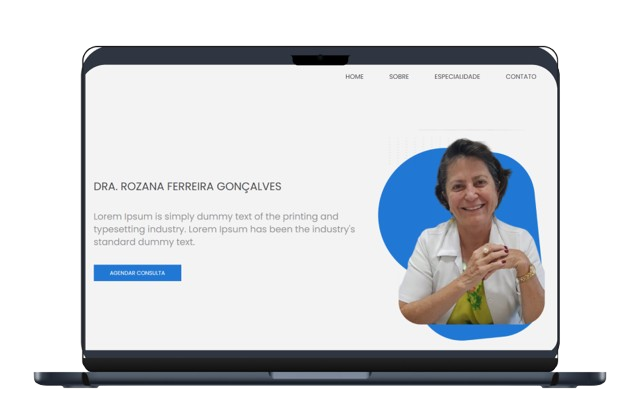
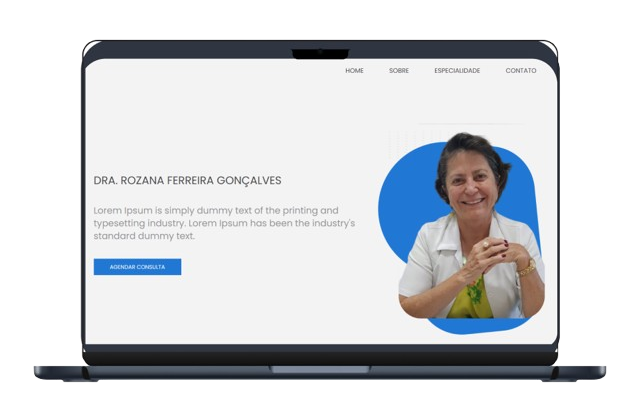
Adicionado carrossel e nova img sekib

diff --git a/index.html b/index.html
@@ -8,6 +8,7 @@
         content="Olá, meu nome é Thainara e sou UX Design e Desenvolvedora Front-End na Empresa Grupo Boticário.">
     <link rel="stylesheet" href="style.css">
     <link rel="shortcut icon" href="./img/logoPortifolio.svg" type="image/x-icon">
+
     <title>Portifólio Thainara Rodrigues</title>
 
     <style>
@@ -50,6 +51,7 @@
             </div>
         </section>
 
+
         <!-- Estudos de Casos -->
         <section class="conteudo-terciario" >
             <div class="circulo"></div>
@@ -57,21 +59,12 @@
             <div class="traco3"  id="estudo-de-caso"></div>
             <h2 class="conteudo-terciario-titulo" >Estudo de Casos </h2>
 
-            <button id="back-button"><img src="img/icons8-avançar-60.png" alt="back-button"> </button>
+            <button id="back-button"><img src="img/icons8-avançar-60.png" alt="Voltar"></button>
 
-            <div class="conteudo-terciario-grid-1">
-                <img class="conteudo-terciario-grid-imagem-1" src="img/printCarrinhoFloricultura.svg"
-                    alt="Tela de Carrinho do Aplicativo Floricultura Online">
-                <img class="conteudo-terciario-grid-imagem-2" src="img/printTelaInicialFloricultura.svg"
-                    alt="Tela Inicial do Aplicativo Floricultura Online">
-                <h3 class="conteudo-terciario-grid-subtitulo-1">Floricultura Online</h3>
-                <p class="conteudo-terciario-grid-paragrafo-1">Projeto do Curso:  Google UX Design <br> Aplicativo de uma Loja de Floricultura Local</p>
-                <button onclick="irParaFloricultura()" class="conteudo-terciario-grid-botao-1">Ver Projeto</button>
-            </div>
 
             <div class="conteudo-terciario-grid-2">
-                <img class="conteudo-terciario-grid-imagem-3" src="img/printTelaInicialSEKIB.svg"
-                    alt="Tela Inicial do Site da SEKIB">
+                <img class="conteudo-terciario-grid-imagem-3" src="img/sekib-pc-removebg-preview.png"
+                    alt="Tela Site da SEKIB">
                 <h3 class="conteudo-terciario-grid-subtitulo-2">Site SEKIB</h3>
                 <p class="conteudo-terciario-grid-paragrafo-2">Projeto do Curso:  Google UX Design <br> Site Responsivo de uma Loja de Bicicletas Personalizáveis </p>
                 <button onclick="irParaSEKIB()" class="conteudo-terciario-grid-botao-2">Ver Projeto</button>
@@ -95,7 +88,18 @@
                 <button onclick="irParaGooday()" class="conteudo-terciario-grid-botao-2">Ver Projeto</button>
             </div>
 
-            <button id="next-button"><img src="img/icons8-avançar-60.png" alt="next-button"> </button>
+            <div class="conteudo-terciario-grid-1">
+                <img class="conteudo-terciario-grid-imagem-1" src="img/floricultura-inicio-removebg-preview.png"
+                    alt="Tela de Carrinho do Aplicativo Floricultura Online">
+                <img class="conteudo-terciario-grid-imagem-2" src="img/floricultura-produto-removebg-preview.png"
+                    alt="Tela Inicial do Aplicativo Floricultura Online">
+                <h3 class="conteudo-terciario-grid-subtitulo-1">Floricultura Online</h3>
+                <p class="conteudo-terciario-grid-paragrafo-1">Projeto do Curso:  Google UX Design <br> Aplicativo de uma Loja de Floricultura Local</p>
+                <button onclick="irParaFloricultura()" class="conteudo-terciario-grid-botao-1">Ver Projeto</button>
+            </div>
+
+
+            <button id="next-button"><img src="img/icons8-avançar-60.png" alt="Avançar"></button>
 
         </section>
 
@@ -195,6 +199,57 @@
     </footer>
 
     <script src="js/main.js"></script>
+
+
+    <!--Carrocel-->
+
+
+    <script>
+        const cards = [
+            document.querySelector('.conteudo-terciario-grid-1'),
+            document.querySelector('.conteudo-terciario-grid-2'),
+            document.querySelector('.conteudo-terciario-grid-3'),
+            document.querySelector('.conteudo-terciario-grid-4')
+        ];
+
+        let currentIndex = 0;
+
+        function mostrarCards(index) {
+            cards.forEach((card, i) => {
+            if (i === index || i === index + 1) {
+                card.classList.add('card-visivel');
+            } else {
+                card.classList.remove('card-visivel');
+            }
+            });
+        }
+
+        document.getElementById('next-button').addEventListener('click', () => {
+            if (currentIndex + 2 < cards.length) {
+            currentIndex += 2;
+            mostrarCards(currentIndex);
+            }
+        });
+
+        document.getElementById('back-button').addEventListener('click', () => {
+            if (currentIndex - 2 >= 0) {
+            currentIndex -= 2;
+            mostrarCards(currentIndex);
+            }
+        });
+
+        // Mostrar os dois primeiros cards no início
+        mostrarCards(currentIndex);
+    </script>
+
+
+
+
+
+
+
+
+
 </body>
 
 </html>

diff --git a/style.css b/style.css
@@ -260,7 +260,7 @@ tela-principal {
 #next-button{
     position: relative;
     top: 180px;
-    left: 1175px;
+    left: 1190px;
 
 }
 
@@ -387,7 +387,6 @@ tela-principal {
 }
 
 
-
 .conteudo-terciario-grid-2 {
     display: grid;
     background-color: white;
@@ -398,7 +397,6 @@ tela-principal {
     padding-top: 300px;
     top: 750px;
     border-radius: 20px;
-    
 
 }
 
@@ -411,6 +409,9 @@ tela-principal {
     top: 40px;
     z-index: 100;
 }
+
+
+
 
 .conteudo-terciario-grid-subtitulo-2 {
     font-weight: 700;
@@ -449,7 +450,7 @@ tela-principal {
     width: 460px;
     height: 440px;
     position: absolute;
-    left: 1250px;
+    left: 730px;
     padding-top: 300px;
     top: 750px;
     border-radius: 20px;
@@ -819,3 +820,27 @@ footer {
     transform: matrix(-0.99, 0.10, -0, -1.5, 0, 0);
     
 }
+
+
+
+
+/* Oculta os cards que não estão visíveis */
+.conteudo-terciario-grid-1,
+.conteudo-terciario-grid-2,
+.conteudo-terciario-grid-3,
+.conteudo-terciario-grid-4 {
+  display: none;
+}
+
+/* O card visível recebe essa classe */
+.card-visivel {
+  display: grid !important;
+}
+
+
+
+
+
+
+
+

diff --git a/js/main.js b/js/main.js
@@ -36,3 +36,9 @@ function irParaGooday(){
 
 //Carrocel 
 
+var elem = document.querySelector('.main-carousel');
+var flkty = new Flickity( elem, {
+  // options
+  cellAlign: 'left',
+  contain: true
+});
